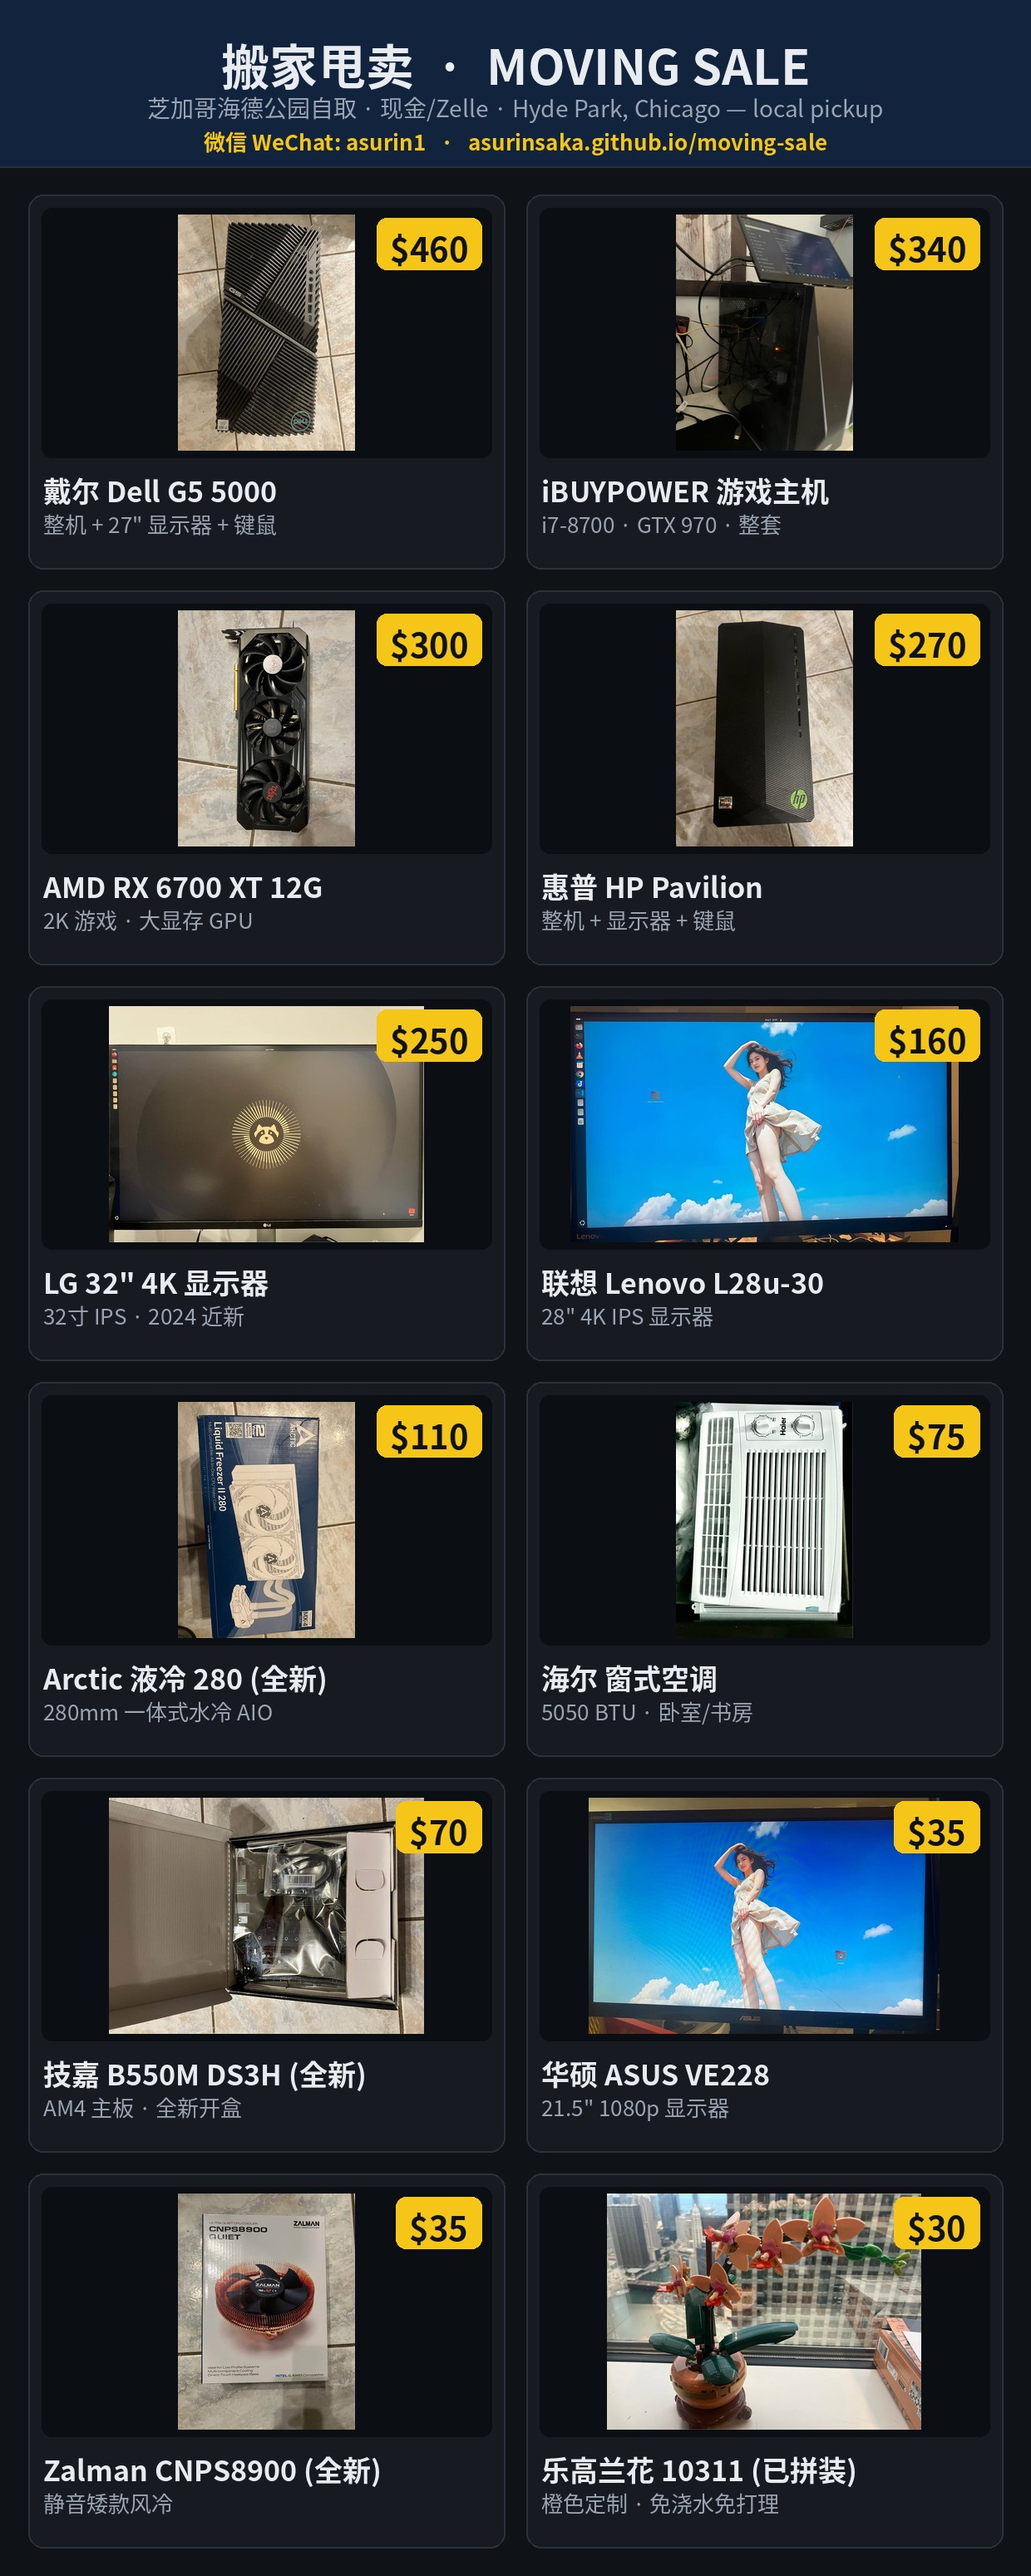
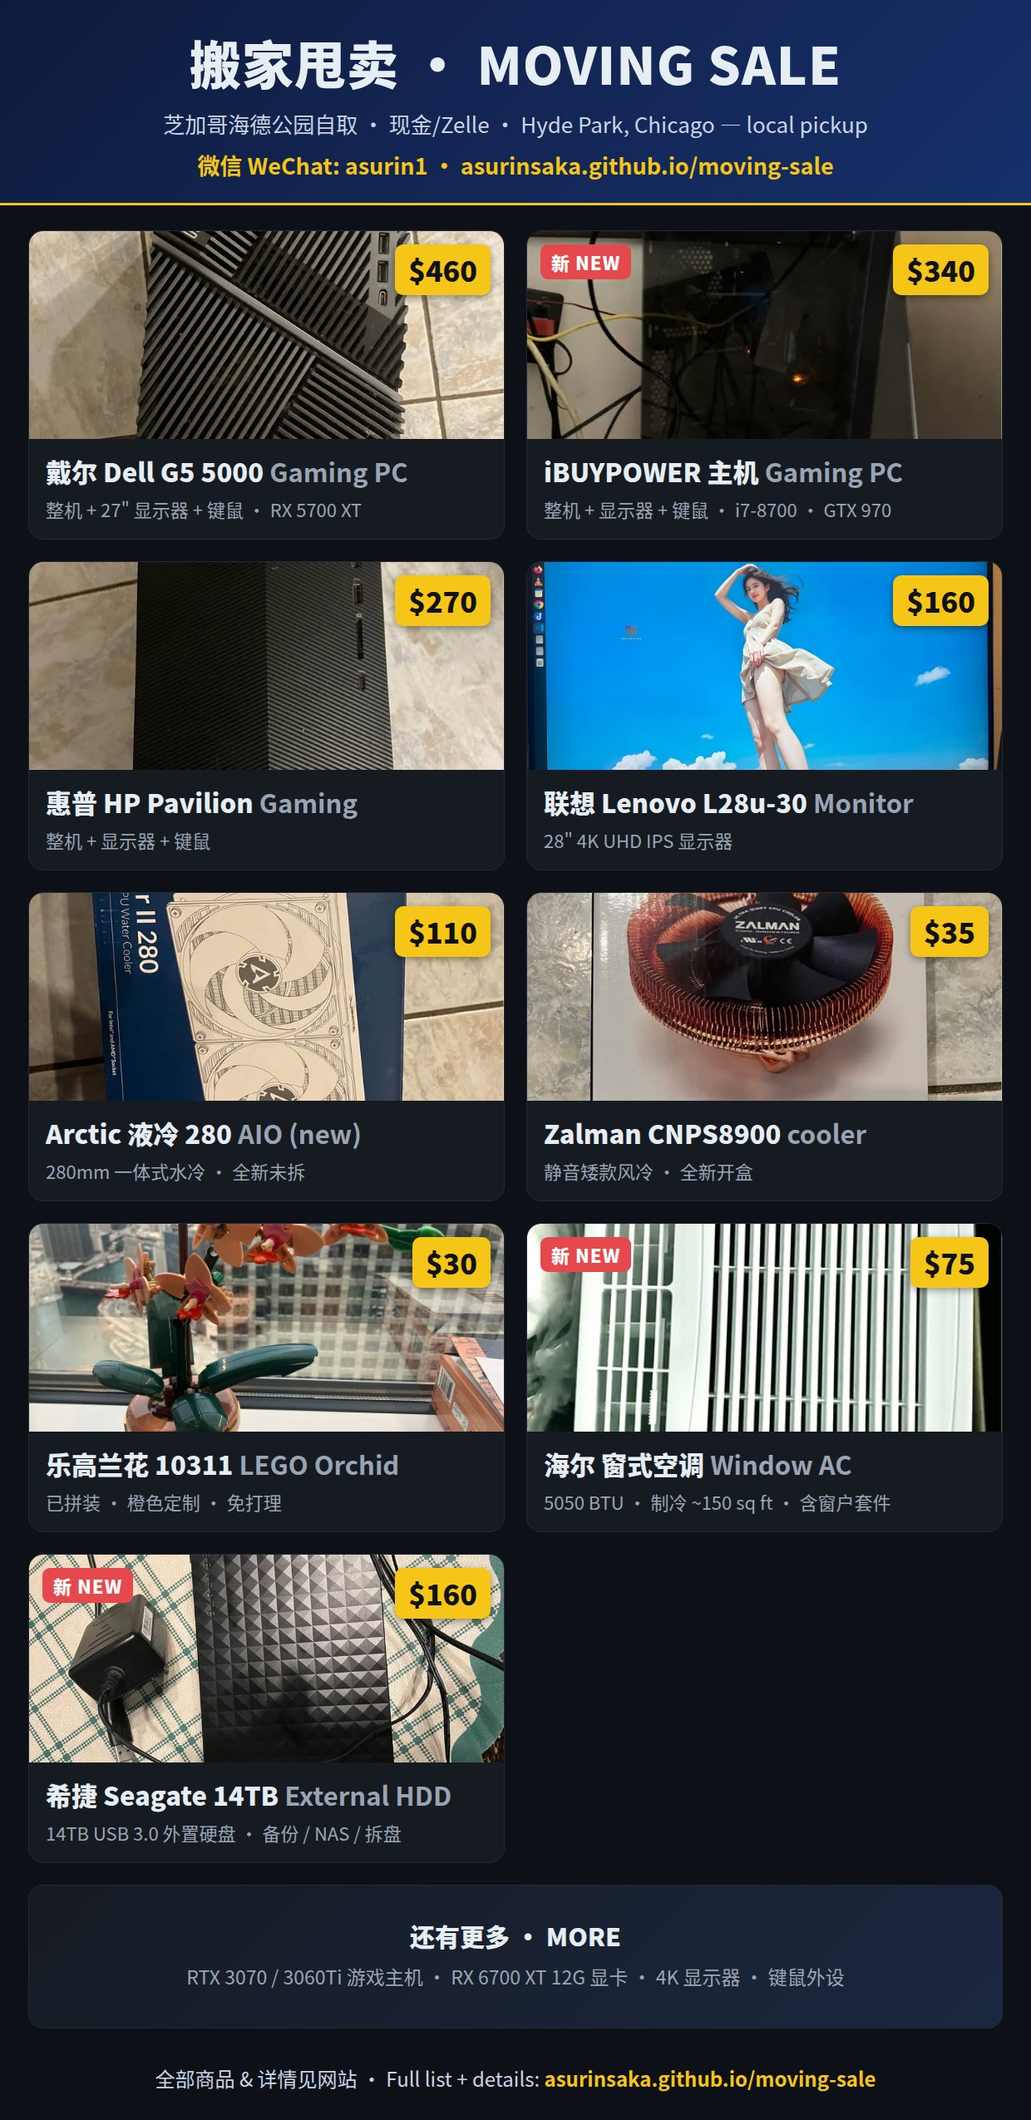
Add Seagate 14TB listing + photo; mark open-box B550M sold; regen poster
- electronics/items.js: new Seagate Expansion 14TB item (photo); B550M DS3H (open-box) → sold
- electronics/images/seagate-14tb.jpg (new)
- poster.html: add Seagate 14TB card; regenerated share/moving-sale-poster.png/.jpg (1240×2550)

diff --git a/electronics/items.js b/electronics/items.js
@@ -56,9 +56,14 @@ window.ITEMS = [
   note:"买任意主机可免费带走 / free with any PC purchase",
   detail:"罗技无线套装：K540 键盘 + M510 鼠标。用过，成色一般但功能正常，含 Unifying 接收器。买主机免费送，也可单独带走。Logitech wireless K540 keyboard + M510 mouse — used, fair cosmetic condition, fully working, Unifying receiver included. Free with any PC purchase, or take them on their own."},
 
- {id:"b550m-ds3h-new", cat:"part", zh:"技嘉 B550M DS3H 主板 (全新开盒)", en:"Gigabyte B550M DS3H (open-box, new)", price:70, photo:"images/b550m-ds3h-openbox.jpg",
-  cond:"全新开盒 · 从未使用 / open-box, never used", specs:["AM4 / B550 Micro-ATX 主板","支持 锐龙 3000/5000 · PCIe 4.0","4×DDR4 · 2×M.2 · 4×SATA","全新未用 · 含原盒/挡板/线材 / complete w/ box"],
-  note:"全新开盒，可小刀 / open-box, OBO",
+ {id:"seagate-expansion-14tb", cat:"part", zh:"希捷 Expansion 14TB 桌面外置硬盘", en:"Seagate Expansion 14TB External HDD", price:160, photo:"images/seagate-14tb.jpg",
+  cond:"二手 · 健康 / used, healthy", specs:["14TB · USB 3.0 · 3.5\" 桌面外置","CMR 氦气盘 · 可拆盘 / CMR helium, shuckable","含 12V 电源 + USB 线 / PSU + cable incl.","SMART 健康 · 无坏道 / SMART healthy, 0 bad sectors"],
+  note:"可邮寄(买家付运费) / can ship",
+  detail:"希捷 Expansion 14TB 桌面外置硬盘 (STEB14000402)，USB 3.0，含原装 12V 电源和数据线。SMART 健康，无坏道。适合备份/媒体库/NAS/拆盘。Seagate Expansion 14TB external (STEB14000402), USB 3.0, includes 12V power adapter + cable. SMART healthy, no bad sectors — great for backups, a media library, NAS, or shucking. Can ship at buyer's cost.",
+  ai:""},
+ {id:"b550m-ds3h-new", cat:"part", sold:true, zh:"技嘉 B550M DS3H 主板 (全新开盒)", en:"Gigabyte B550M DS3H (open-box, new)", price:70, photo:"images/b550m-ds3h-openbox.jpg",
+  cond:"已售出 / sold", specs:["AM4 / B550 Micro-ATX 主板","全新开盒 · 已于 2026-08 售出 / open-box, sold Aug 2026"],
+  note:"",
   detail:"技嘉 B550M DS3H，全新开盒从未使用，含原盒、挡板、SATA线、说明书。AM4(锐龙3000/5000)，PCIe 4.0，2×M.2。可邮寄(买家付运费)。Gigabyte B550M DS3H — open box, never used, complete with box / I-O shield / SATA cables / manual. AM4 (Ryzen 3000/5000), PCIe 4.0, 2× M.2. Can ship.",
   ai:""},
  {id:"b550m-ds3h", cat:"part", sold:true, zh:"技嘉 B550M DS3H 主板", en:"Gigabyte B550M DS3H motherboard", price:50, photo:"images/b550m-ds3h.jpg",

diff --git a/poster.html b/poster.html
@@ -66,6 +66,10 @@
       <div class="body"><div class="name">海尔 窗式空调 <span class="en">Window AC</span></div>
       <div class="note">5050 BTU · 制冷 ~150 sq ft · 含窗户套件</div></div></div>
 
+    <div class="card"><div class="imgwrap"><img src="electronics/images/seagate-14tb.jpg"><div class="newtag">新 NEW</div><div class="price">$160</div></div>
+      <div class="body"><div class="name">希捷 Seagate 14TB <span class="en">External HDD</span></div>
+      <div class="note">14TB USB 3.0 外置硬盘 · 备份 / NAS / 拆盘</div></div></div>
+
     <div class="card" style="grid-column:1/-1;display:flex;align-items:center;justify-content:center;background:linear-gradient(135deg,#161b22,#1b2740);padding:22px;">
       <div class="body" style="text-align:center">
         <div class="name" style="font-size:30px">还有更多 · MORE</div>
